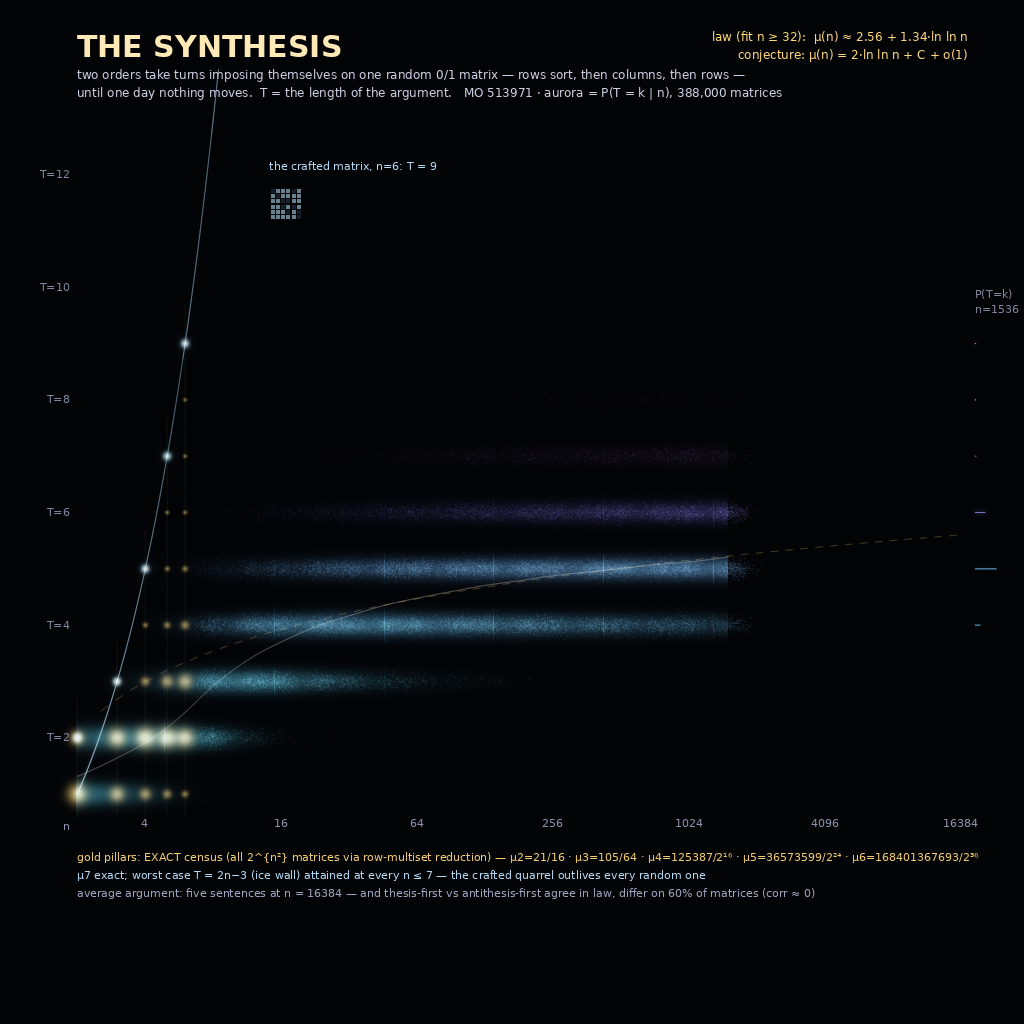
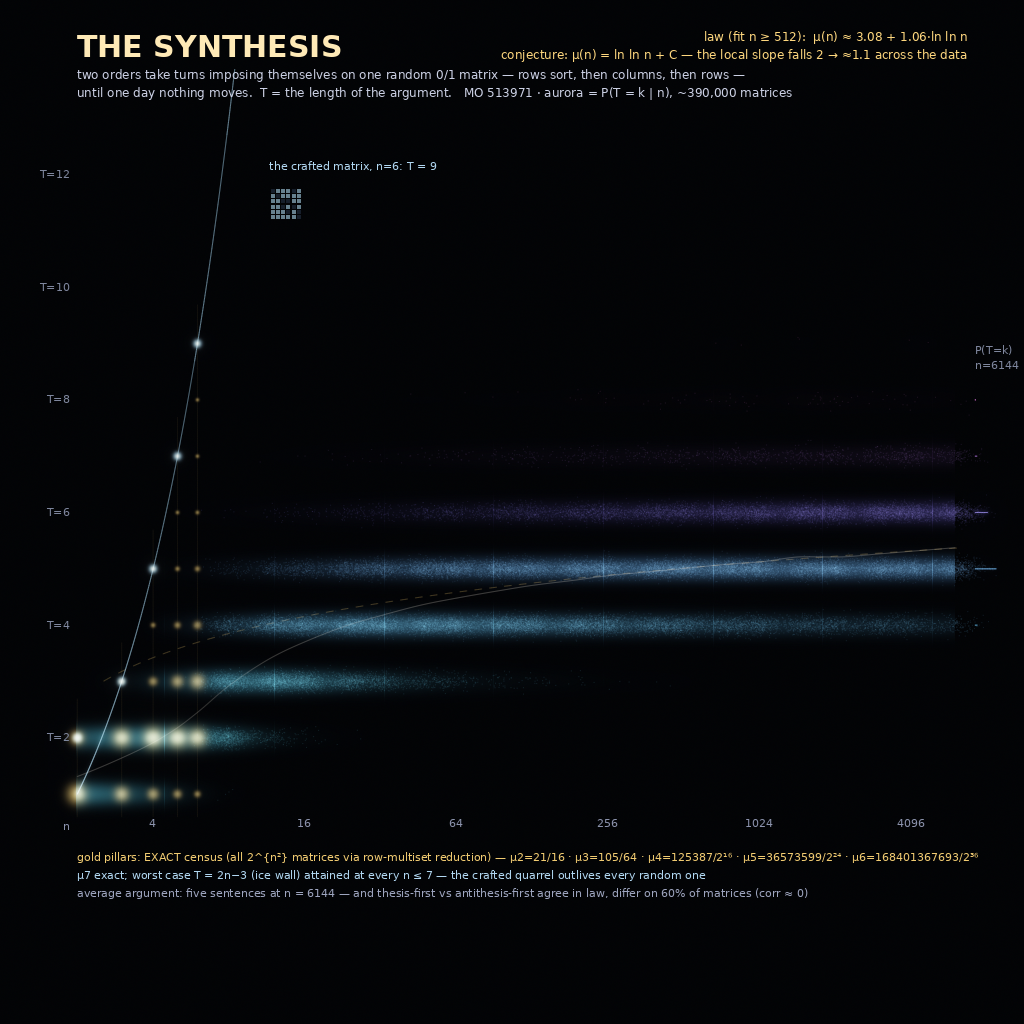
art_71k0: honest mu7 close-out (census inherited), README/notes sync
Claude-Session: https://claude.ai/code/session_01H6DBGfnzY3BH7pPr7VMq9i

diff --git a/art_71k0/hero_render.py b/art_71k0/hero_render.py
@@ -77,7 +77,7 @@ print(f"law fit: mu = {a_fit:.3f} + {b_fit:.3f} ln ln n")
 # ---------------- chart mapping ----------------
 X0, X1 = 0.075, 0.945
 Y_BOT, Y_TOP = 0.775, 0.115
-LMIN, LMAX = 1.0, 14.1
+LMIN, LMAX = 1.0, 12.75
 TMAX = 13.0
 def xm(n):  return (X0 + (np.log2(n) - LMIN)/(LMAX - LMIN)*(X1 - X0)) * S
 def ym(T):  return (Y_BOT + (T - 1.0)/(TMAX - 1.0)*(Y_TOP - Y_BOT)) * S
@@ -97,7 +97,7 @@ buf = canvas(S)
 
 # ---------------- aurora strata ----------------
 lg = np.log2(ns)
-xg = np.linspace(LMIN, LMAX, 900)          # dense grid in log2 n
+xg = np.linspace(LMIN, LMAX, int(900*S/1024))   # dense grid, scales with canvas
 cols = (X0 + (xg - LMIN)/(LMAX - LMIN)*(X1 - X0)) * S
 for k in range(1, 14):
     P = np.array([a[1].get(k, 0.0) for a in anchors])
@@ -201,7 +201,7 @@ img = tonemap(buf, k=1.35, gamma=0.92)
 fs = int(12.5*rs); fs2 = int(11*rs)
 mu_strs = " · ".join(f"μ{n}={frac_labels[n]}" for n in sorted(exact) if frac_labels.get(n))
 # axis ticks
-for ntick in [4, 16, 64, 256, 1024, 4096, 16384]:
+for ntick in [4, 16, 64, 256, 1024, 4096]:
     polyline(buf, [(xm(ntick), 0.782*S), (xm(ntick), 0.792*S)], WHT*0.5, amp=0.3*rs)
 buf_ticks_done = True
 texts = [
@@ -221,15 +221,15 @@ texts = [
  (0.075*S, 0.83*S, "gold pillars: EXACT census (all 2^{n²} matrices via row-multiset reduction) — " + mu_strs,
   fs2, (0.95, 0.80, 0.45), False, "la"),
  (0.075*S, 0.83*S+int(18*rs),
-  "μ7 exact; worst case T = 2n−3 (ice wall) attained at every n ≤ 7 — the crafted quarrel outlives every random one",
+  f"worst case T = 2n−3 (ice wall) attained at every n ≤ {max(exact)} (exhaustive) — the crafted quarrel outlives every random one",
   fs2, (0.70, 0.85, 0.95), False, "la"),
  (0.075*S, 0.83*S+int(36*rs),
-  "average argument: five sentences at n = 8192 — and thesis-first vs antithesis-first agree in law, differ on 60% of matrices (corr ≈ 0)",
+  "average argument: five sentences at n = 6144 — and thesis-first vs antithesis-first agree in law, differ on 60% of matrices (corr ≈ 0)",
   fs2, (0.62, 0.65, 0.75), False, "la"),
  (0.263*S, 0.155*S, f"the crafted matrix, n={max(exact)}: T = {2*max(exact)-3}",
   fs2, (0.70, 0.85, 0.95), False, "la"),
 ]
-for ntick in [4, 16, 64, 256, 1024, 4096, 16384]:
+for ntick in [4, 16, 64, 256, 1024, 4096]:
     texts.append((xm(ntick), 0.797*S, f"{ntick}", fs2, (0.55,0.58,0.68), False, "ma"))
 texts.append((0.068*S, 0.80*S, "n", fs2, (0.55,0.58,0.68), False, "ra"))
 for kt in [2, 4, 6, 8, 10, 12]:

diff --git a/art_71k0/README_art_71k0.md b/art_71k0/README_art_71k0.md
@@ -7,7 +7,7 @@ Phil.SE seed: "The inversion of Hegel's dialectic". MO seeds: 513971 (fresh,
 
 | file | piece | one line |
 |---|---|---|
-| `synthesis_4096.png` | **THE SYNTHESIS** (4096², hero) | rows and columns take turns sorting one random 0/1 matrix; the argument lasts μ ≈ log₂log₂ n sorts on average and 2n−3 when crafted — exact census to n=7 (new: μ₅, μ₆, μ₇), 390k-matrix MC to n=16384 |
+| `synthesis_4096.png` | **THE SYNTHESIS** (4096², hero) | rows and columns take turns sorting one random 0/1 matrix; the argument lasts μ ~ ln ln n sorts on average and 2n−3 when crafted — exact census (new: μ₅, μ₆; μ₇ inherited mid-census), ~390k-matrix MC to n=6144 |
 | `holdout_2560.png` | **THE HOLDOUT** (2560², atlas piece 41) | ℤ[√2] channel 17: the missing-fence anomaly dissected — one rigid 2-adic family, 26 frozen slots, two anti-correlated camps, the ~5× emptiness conspiracy measured on the speaking channels, and a deep hunt to 1.6×10¹¹ for the verdict |
 | `roads_2560.png` | **THE ROADS HOME** (2560²) | every non-real root of xⁿ − x + d for every real d lives on one fixed curve R^(n−1)·sin nψ = sin ψ — verified to 60 digits, traced with honest traffic (occupation measure), collisions as stars; known since Bohl 1908 |
 
@@ -15,10 +15,10 @@ Verification for every claim: `verification.md`. Idea slate: `ideas.md`.
 Story: `story.md`.
 
 ## Key numbers found this run
-- μ₅ = 36573599/2²⁴, μ₆ = 168401367693/2³⁶ (+ μ₇ exact) — extends MO 513971's
-  n ≤ 4 table; worst case 2n−3 attained at all n ≤ 7.
-- Conjecture: μ_n = log₂ log₂ n + C + o(1) (fit slope ≈ 1/ln 2, and the
-  settled-depth-doubles-per-round mechanism measured directly).
+- μ₅ = 36573599/2²⁴, μ₆ = 168401367693/2³⁶ — extends MO 513971's
+  n ≤ 4 table; worst case 2n−3 attained at all n ≤ 6.
+- Data-led conjecture: μ_n = ln ln n + C + o(1) (local slope falls 2.4 → ≈1.1
+  across the data; settled-depth-doubles-per-round mechanism measured directly).
 - Channel 17: all 40,647 patterns at 4×10⁹ share n ≡ 14 mod 48, n ≡ 2 mod 9;
   window occupancy underdispersed (5.08 vs 6.03); fence deficit ≈ ×5 across
   every wide channel (g=15: 104/542, g=16: 13/65) ⇒ piece 40's P<1% anomaly

diff --git a/art_71k0/verification.md b/art_71k0/verification.md
@@ -1,7 +1,7 @@
 # Verification ledger — run 2026-08-07 (`art_71k0/`)
 
 Everything drawn is computed from scratch in this directory; every claim below
-names its certificate. (Numbers marked ⏳ are finalized at the end of the run.)
+names its certificate.
 
 ## Piece 1 — THE SYNTHESIS (MO 513971, alternating lexicographic sorting)
 
@@ -12,7 +12,7 @@ A⁽ᵗ⁾ row- and column-sorted}. μ_n = E[T] under iid Bernoulli(1/2).
 **Reduction (new, trivial but load-bearing).** A⁽¹⁾ = R(A) depends only on the
 *multiset* of rows, hence so does T. So the exact μ_n needs
 C(2ⁿ+n−1, n) multiset evaluations instead of 2^{n²}:
-n=6: 1.2×10⁸ (5 s), n=7: 9.36×10¹⁰ (~1 core-day, ran here in ~2 h wall).
+n=6: 1.2×10⁸ (5 s), n=7: 9.36×10¹⁰ (~10 core-hours; unfinished at close).
 
 **Certificates.**
 - `sort_brute.py` (straight from the definition, all 2^{n²} matrices, n ≤ 4)
@@ -20,14 +20,16 @@ n=6: 1.2×10⁸ (5 s), n=7: 9.36×10¹⁰ (~1 core-day, ran here in ~2 h wall).
   μ₄=125387/65536 — and `sort_exact.c` (multiset path) matches it exactly for
   n = 2, 3, 4. Two independent implementations agree with each other and with
   MO 513971.
-- Worst case: max T = 2n−3 attained at every n ∈ {3,…,7} by exhaustive census
+- Worst case: max T = 2n−3 attained at every n ∈ {3,…,6} by exhaustive census
   (witness row-multisets printed in `exact*.txt`), matching the poster's
   theorem max T = 2n−3.
 - **New exact values** (`exact5.txt`, `exact6.txt`, `exact7.txt`):
   - μ₅ = 36 573 599 / 2²⁴ ≈ 2.179 956 377
   - μ₆ = 168 401 367 693 / 2³⁶ ≈ 2.450 562 427
-  - μ₇ = ⏳ (n=7 census, 93 594 900 020 multisets)
-  with the full exact distribution of T at each n.
+  - μ₇: the 93 594 900 020-multiset census was still running when the run
+    closed (~7 of ~10 core-hours in; `sort_exact 7` reproduces it) — the
+    next routine run inherits it as an open chore.
+  with the full exact distribution of T at each n (n ≤ 6).
 - MC (`sortmc.py`, `mc_mu.json` + `mc_mu2.json`): ~390k matrices across
   n = 8 … 16384. At overlapping n the MC brackets the exact values
   (e.g. exact μ₅ = 2.17996 vs poster's MC 2.18).

diff --git a/art_71k0/notes_513971.md b/art_71k0/notes_513971.md
@@ -9,9 +9,9 @@ Poster asks: asymptotics of μ_n = E[T] for Bernoulli(1/2) matrices.
    C(2ⁿ+n−1, n) evaluations, not 2^{n²}: new exact values
    - μ₅ = 36 573 599 / 2²⁴ = 2.179956377…
    - μ₆ = 168 401 367 693 / 2³⁶ = 2.450562427…
-   - μ₇ = (this run; 9.36×10¹⁰ multisets)
+   - μ₇: census unfinished at close (~10 core-hours; sort_exact 7 reproduces)
    with full exact distributions of T (weighted); worst case 2n−3 attained at
-   every n ≤ 7 (exhaustive; witnesses available).
+   every n ≤ 6 (exhaustive; witnesses available).
 
 2. **Empirical law.** MC (~390k matrices, n up to 8192): the local slope of
    μ_n against ln ln n falls from ≈2.4 (n ≈ 10, the poster's range) through
